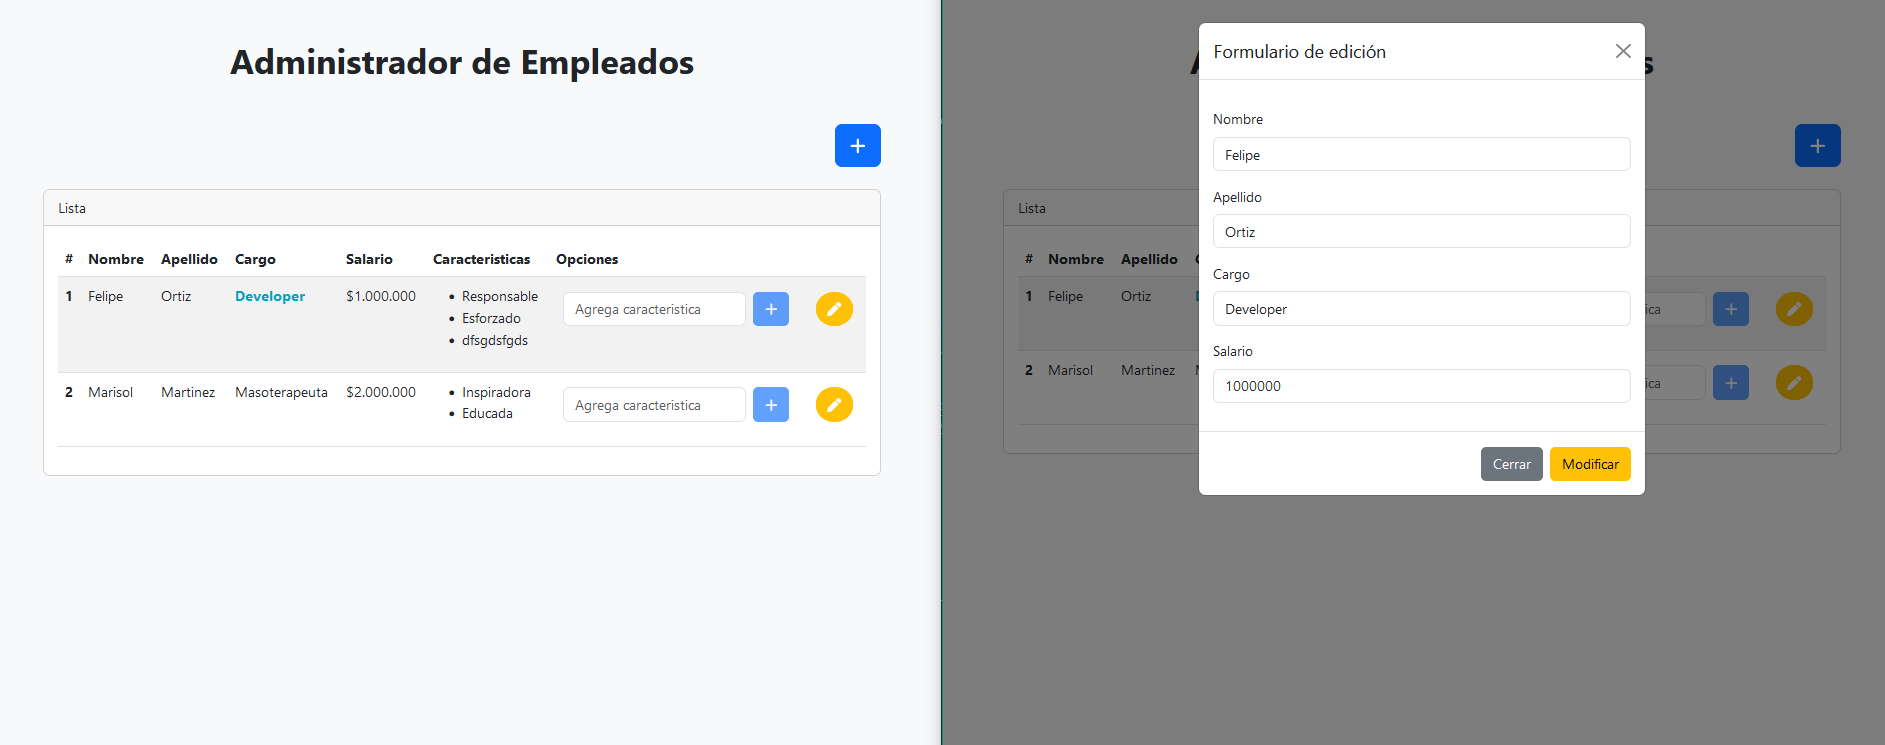
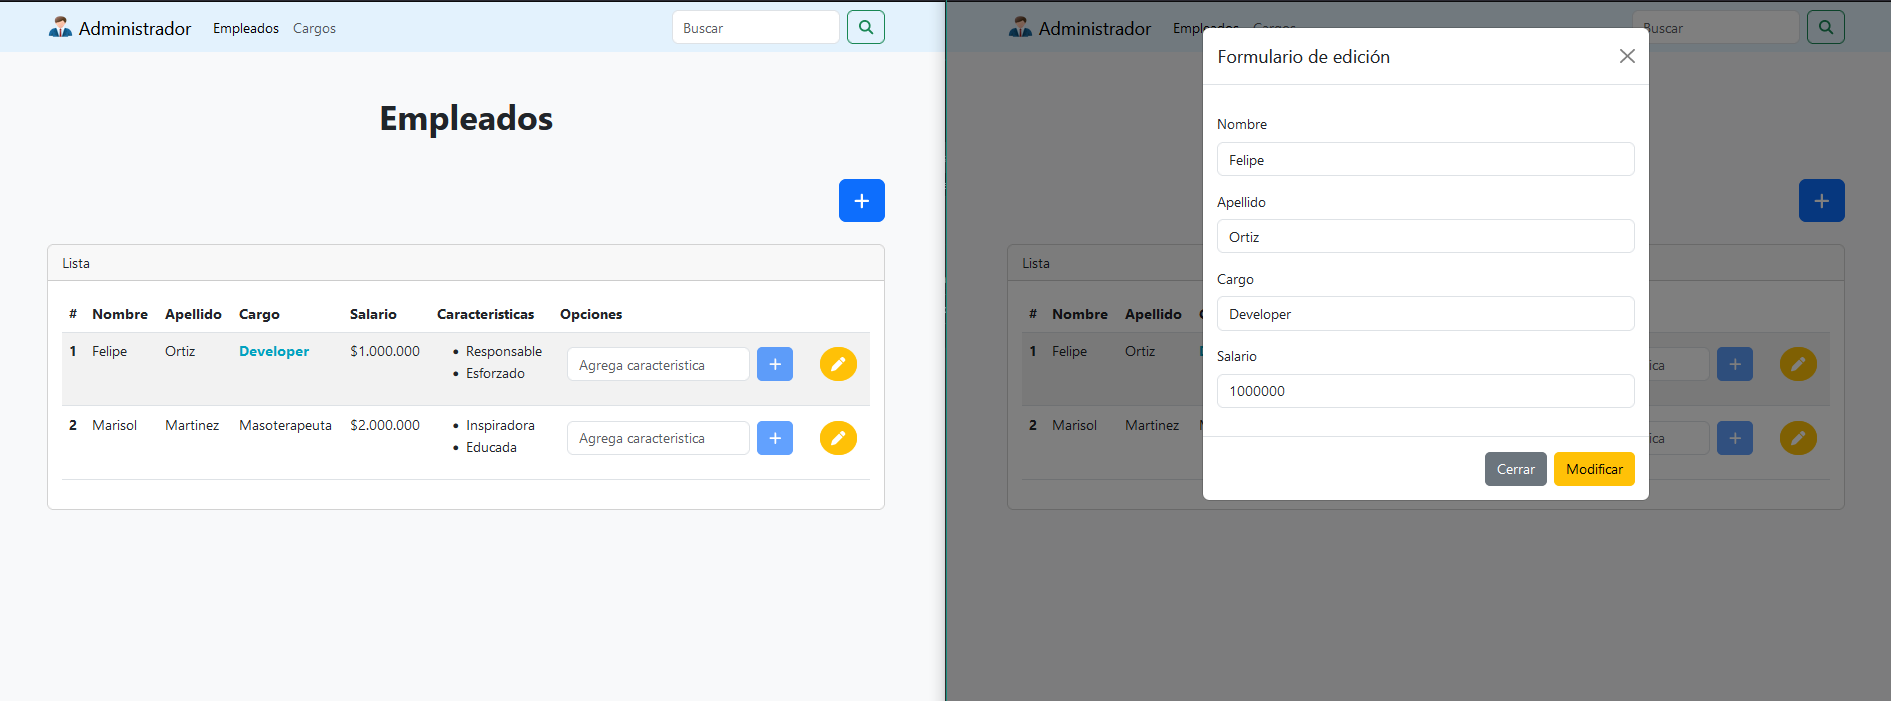
update readme, se agregan estilos al navbar

diff --git a/src/app/app.component.html b/src/app/app.component.html
@@ -1,6 +1,9 @@
-<nav class="navbar navbar-expand-lg" style="background-color: #e3f2fd;">
-  <div class="container-fluid">
-    <a class="navbar-brand">Administrador</a>
+<nav class="navbar navbar-expand-lg sticky-md-top sticky-lg-top" style="background-color: #e3f2fd;">
+  <div class="container">
+    <a class="navbar-brand">
+      <img src="assets/hombre-de-negocios.png" alt="" width="30" height="24" class="d-inline-block align-text-top">
+      Administrador
+    </a>
     <button class="navbar-toggler" type="button" data-bs-toggle="collapse" data-bs-target="#navbarSupportedContent" aria-controls="navbarSupportedContent" aria-expanded="false" aria-label="Toggle navigation">
       <span class="navbar-toggler-icon"></span>
     </button>
@@ -28,8 +31,8 @@
         </li> -->
       </ul>
       <form class="d-flex" role="search">
-        <input class="form-control me-2" type="search" placeholder="Search" aria-label="Search">
-        <button class="btn btn-outline-success" type="submit">Search</button>
+        <input class="form-control me-2" type="search" placeholder="Buscar" aria-label="Search">
+        <button class="btn btn-outline-success" type="submit"><fa-icon [icon]="faMagnifyingGlass"></fa-icon></button>
       </form>
     </div>
   </div>

diff --git a/src/app/app.component.ts b/src/app/app.component.ts
@@ -1,4 +1,5 @@
 import { Component } from '@angular/core';
+import { faMagnifyingGlass } from '@fortawesome/free-solid-svg-icons';
 
 @Component({
   selector: 'app-root',
@@ -6,5 +7,5 @@ import { Component } from '@angular/core';
   styleUrls: ['./app.component.css']
 })
 export class AppComponent {
-  title = 'administrador';
+  faMagnifyingGlass = faMagnifyingGlass;
 }

diff --git a/src/app/components/empleados/lista-empleados/lista-empleados.component.html b/src/app/components/empleados/lista-empleados/lista-empleados.component.html
@@ -1,4 +1,4 @@
-<div class="card my-4" style="overflow: auto;">
+<div class="card mt-4" style="overflow: auto;">
     <div class="card-header">
         Lista
     </div>

diff --git a/README.md b/README.md
@@ -22,6 +22,7 @@ Proyecto de prueba para poner en practica conceptos de angular 16.
         - OnInit
     - Services
     - Objetos anonimos
+- Routes (sistema SPA)
 - Integración:
     - Bootstrap 5
     - Angular-font-awesome
